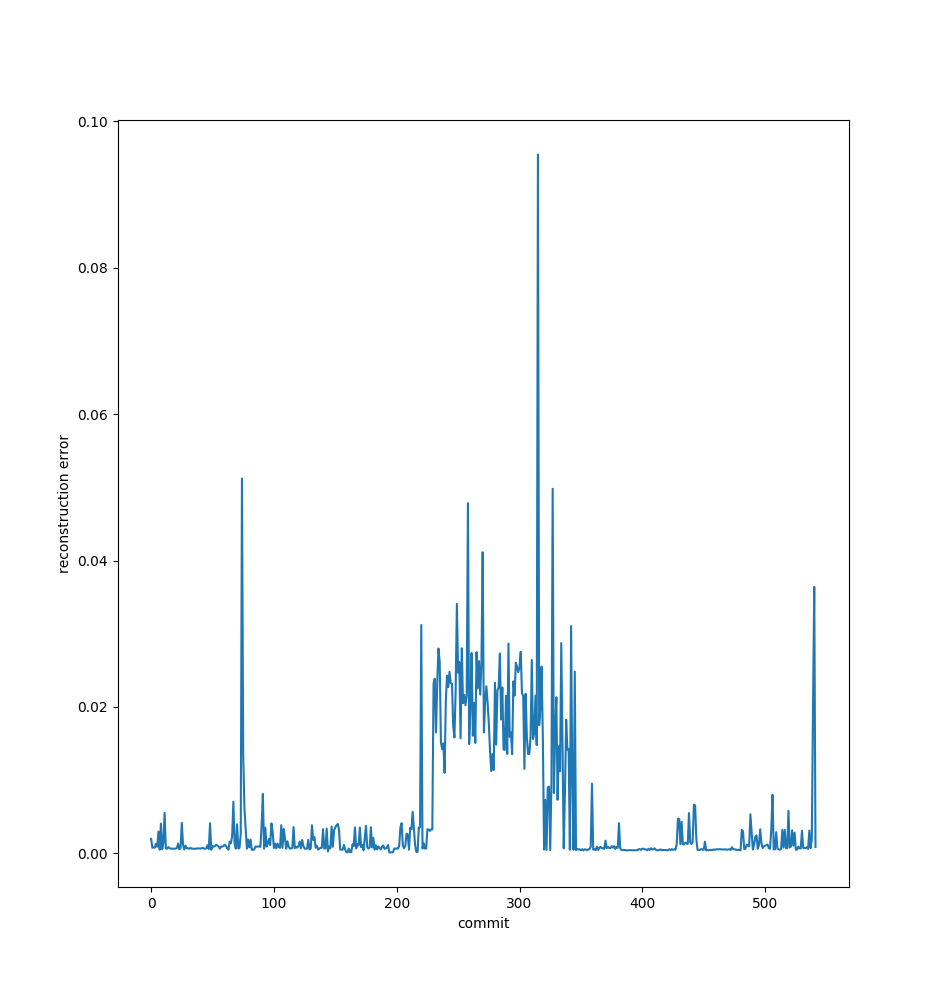
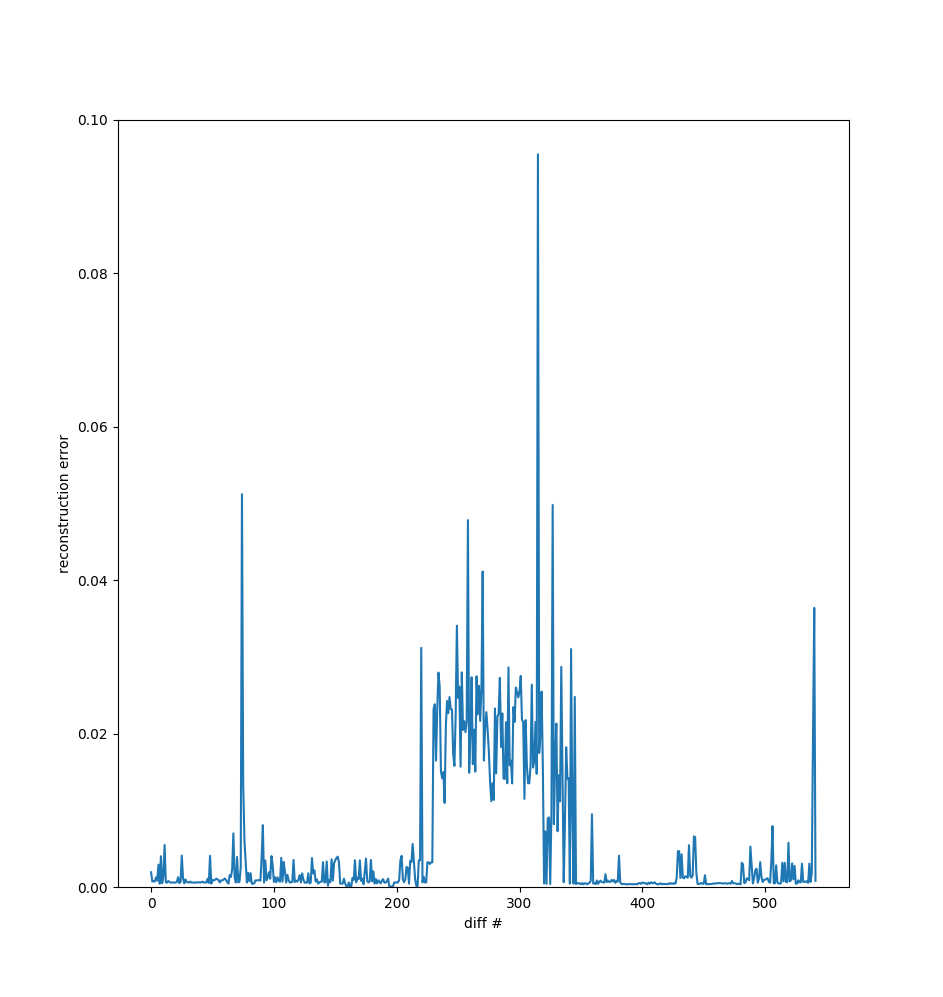
more examples and better axis labels

diff --git a/model_test.py b/model_test.py
@@ -12,7 +12,7 @@ embed_dims_cols = [
     embed_dims["file_types"]
 ]
 
-data_test = h5py.File("django_U0_test2.h5", 'r')["diff_features"][:]
+data_test = h5py.File("django_U0.h5", 'r')["diff_features"][:]
 tgen,_ = dg.DiffAutencoderBasic.create_data_generators(
     data_test, embed_split_index, embed_dims_cols,
     batch_size=1, val_split=0.0, shuffle=False

diff --git a/graph_out.py b/graph_out.py
@@ -1,9 +1,10 @@
 import matplotlib.pyplot as plt
 
-with open("OUT", 'r') as f:
+with open("larg2_output", 'r') as f:
     nums = [float(k) for k in f.readlines()]
 
 plt.plot(nums)
-plt.xlabel("commit")
+plt.ylim((0.0,0.1))
+plt.xlabel("diff #")
 plt.ylabel("reconstruction error")
 plt.show()
